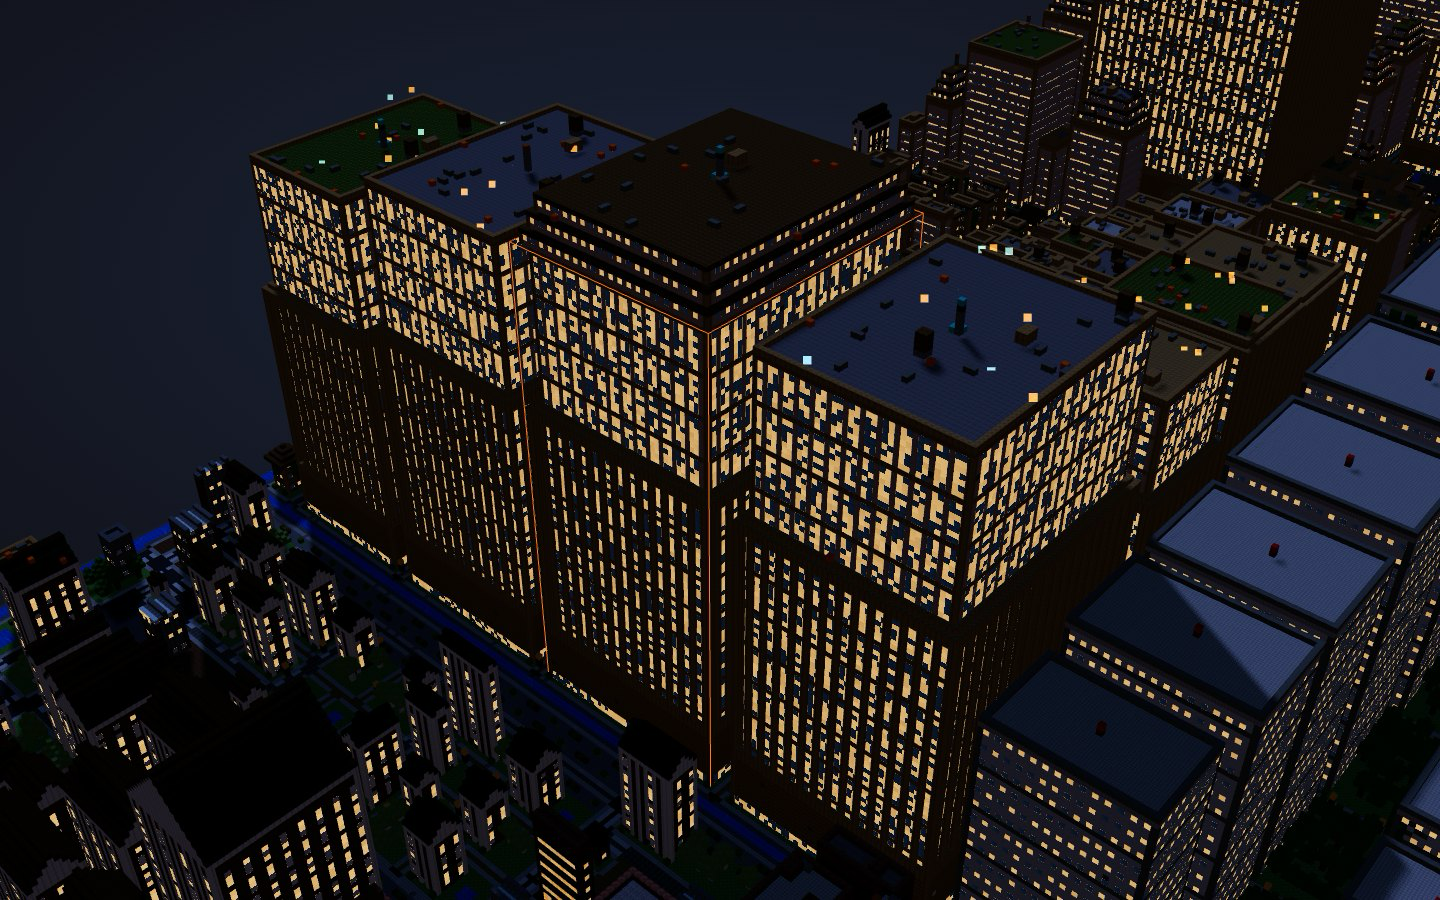
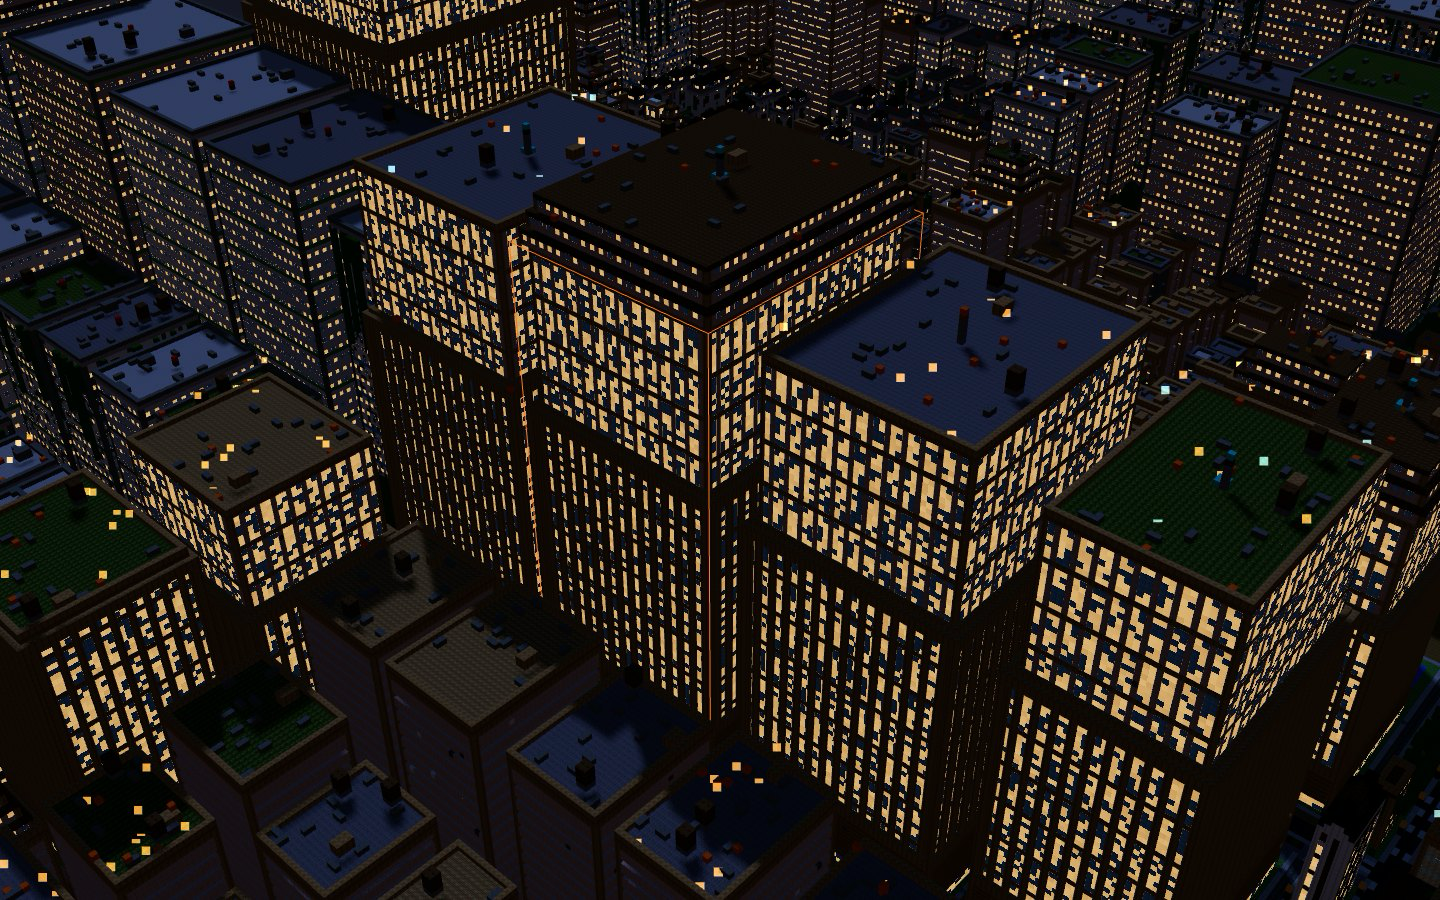
release: 0.9.0 (terraces, test-lab variety)

diff --git a/CHANGELOG.md b/CHANGELOG.md
@@ -1,5 +1,11 @@
 # Changelog
 
+## 0.9.0 — 2026-10-16
+
+- **Terraces:** a folder made mostly of small files (townhouse class) is laid out as rows along lanes, back gardens meeting, files in path order, instead of scattered lots.
+- **Test labs:** each lab picks one of three whites, an accent stripe and roof furniture, so test-heavy districts are no longer one white field.
+- Export palettes no longer contain unused block states.
+
 ## 0.8.0 — 2026-10-16
 
 - **Facades with depth:** wide towers get trim piers on every third column, vertical glass strips between them and a two-block cornice; midrises get recessed ribbon windows, one glass row per floor. The skyline reads as framed buildings instead of boxes with dot grids.
